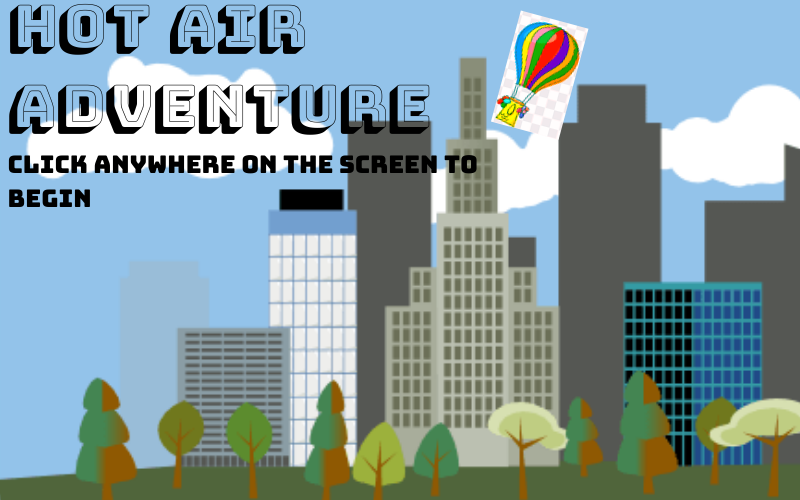
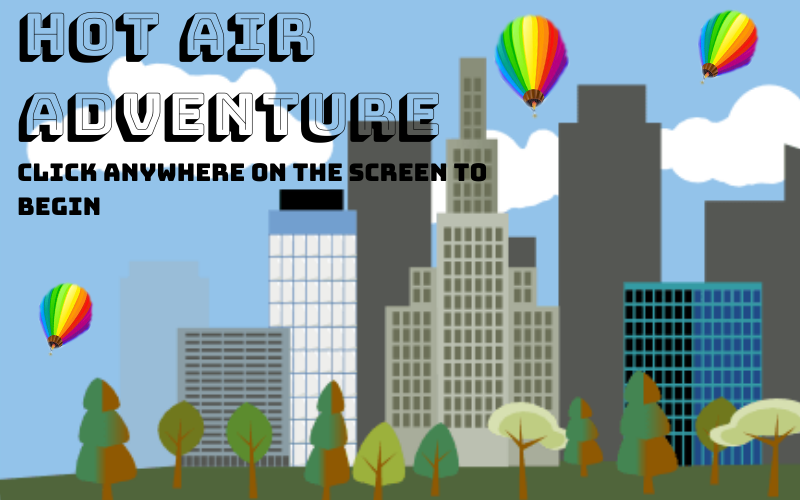
changed intro screen

diff --git a/introduction.py b/introduction.py
@@ -9,7 +9,7 @@ BACKGROUND_COLOR = arcade.color.WHITE
 GAME_TITLE = "Hot Air Adventure"
 GAME_SPEED = 1/60
 MOVEMENT_SPEED = 6
-PLAYER = arcade.load_texture("images/player.jpg")
+PLAYER = arcade.load_texture("images/player.png")
 BUILDING_HEIGHT = random.randint(25, 500)
 BUILDING = arcade.make_soft_square_texture(BUILDING_HEIGHT, arcade.color.GRAY, 255, 128)
 
@@ -44,7 +44,7 @@ class HowToPlay(arcade.View):
 
 class Balloon(arcade.Sprite):
     def __init__(self):
-        super.init("images/player.jpg")
+        super.init("images/player.png")
 
 
 
